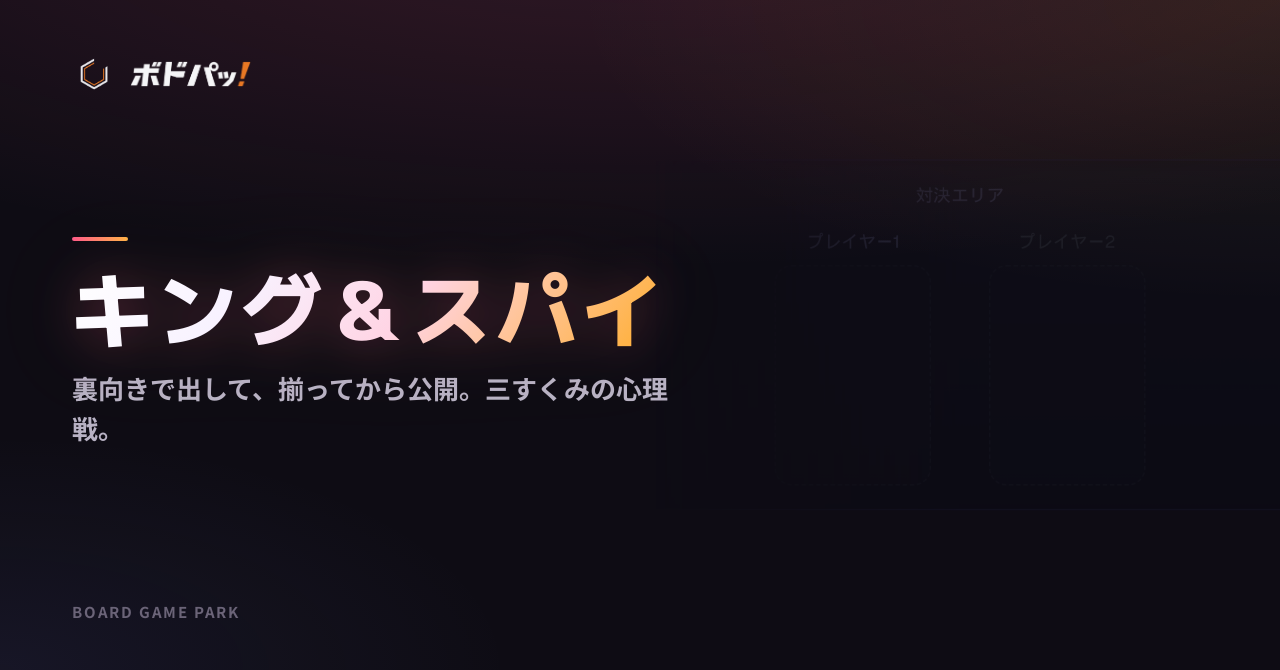
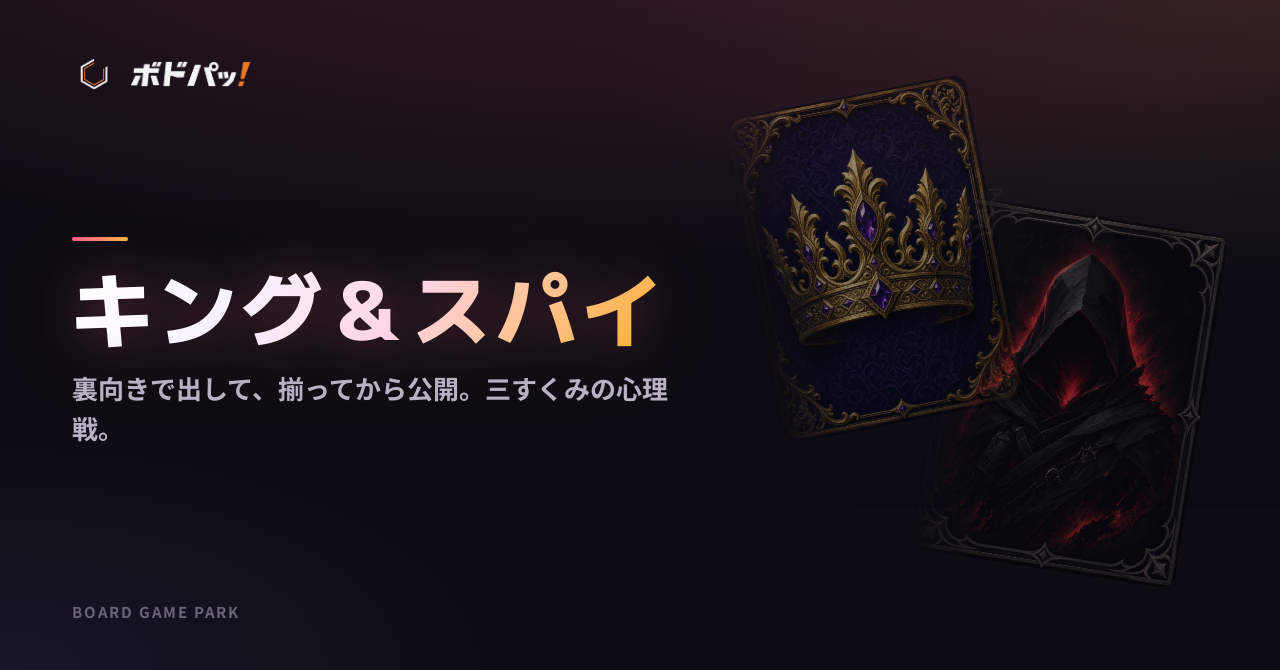
docs(note): キング＆スパイアイキャッチにキング・スパイカードを背景追加

diff --git a/docs/note/eyecatch/README.md b/docs/note/eyecatch/README.md
@@ -11,7 +11,7 @@
 | 右 | プレイ画面の盤を **約10%の不透明度** で薄く（左へフェード） |
 
 文言は `entries.json` で管理します（各記事の「サムネ用キャッチコピー」と揃えてください）。  
-任意: `boardOpacity`（盤の濃さ）、`titleNoWrap` / `titleFontSize`（長いタイトルの1行表示）。
+任意: `boardOpacity`（盤の濃さ）、`titleNoWrap` / `titleFontSize`（長いタイトルの1行表示）、`cardOverlay`（`public/games/{slug}/` のカード画像を右背景に重ねる。キング＆スパイ向け）。
 
 ## ファイル
 
